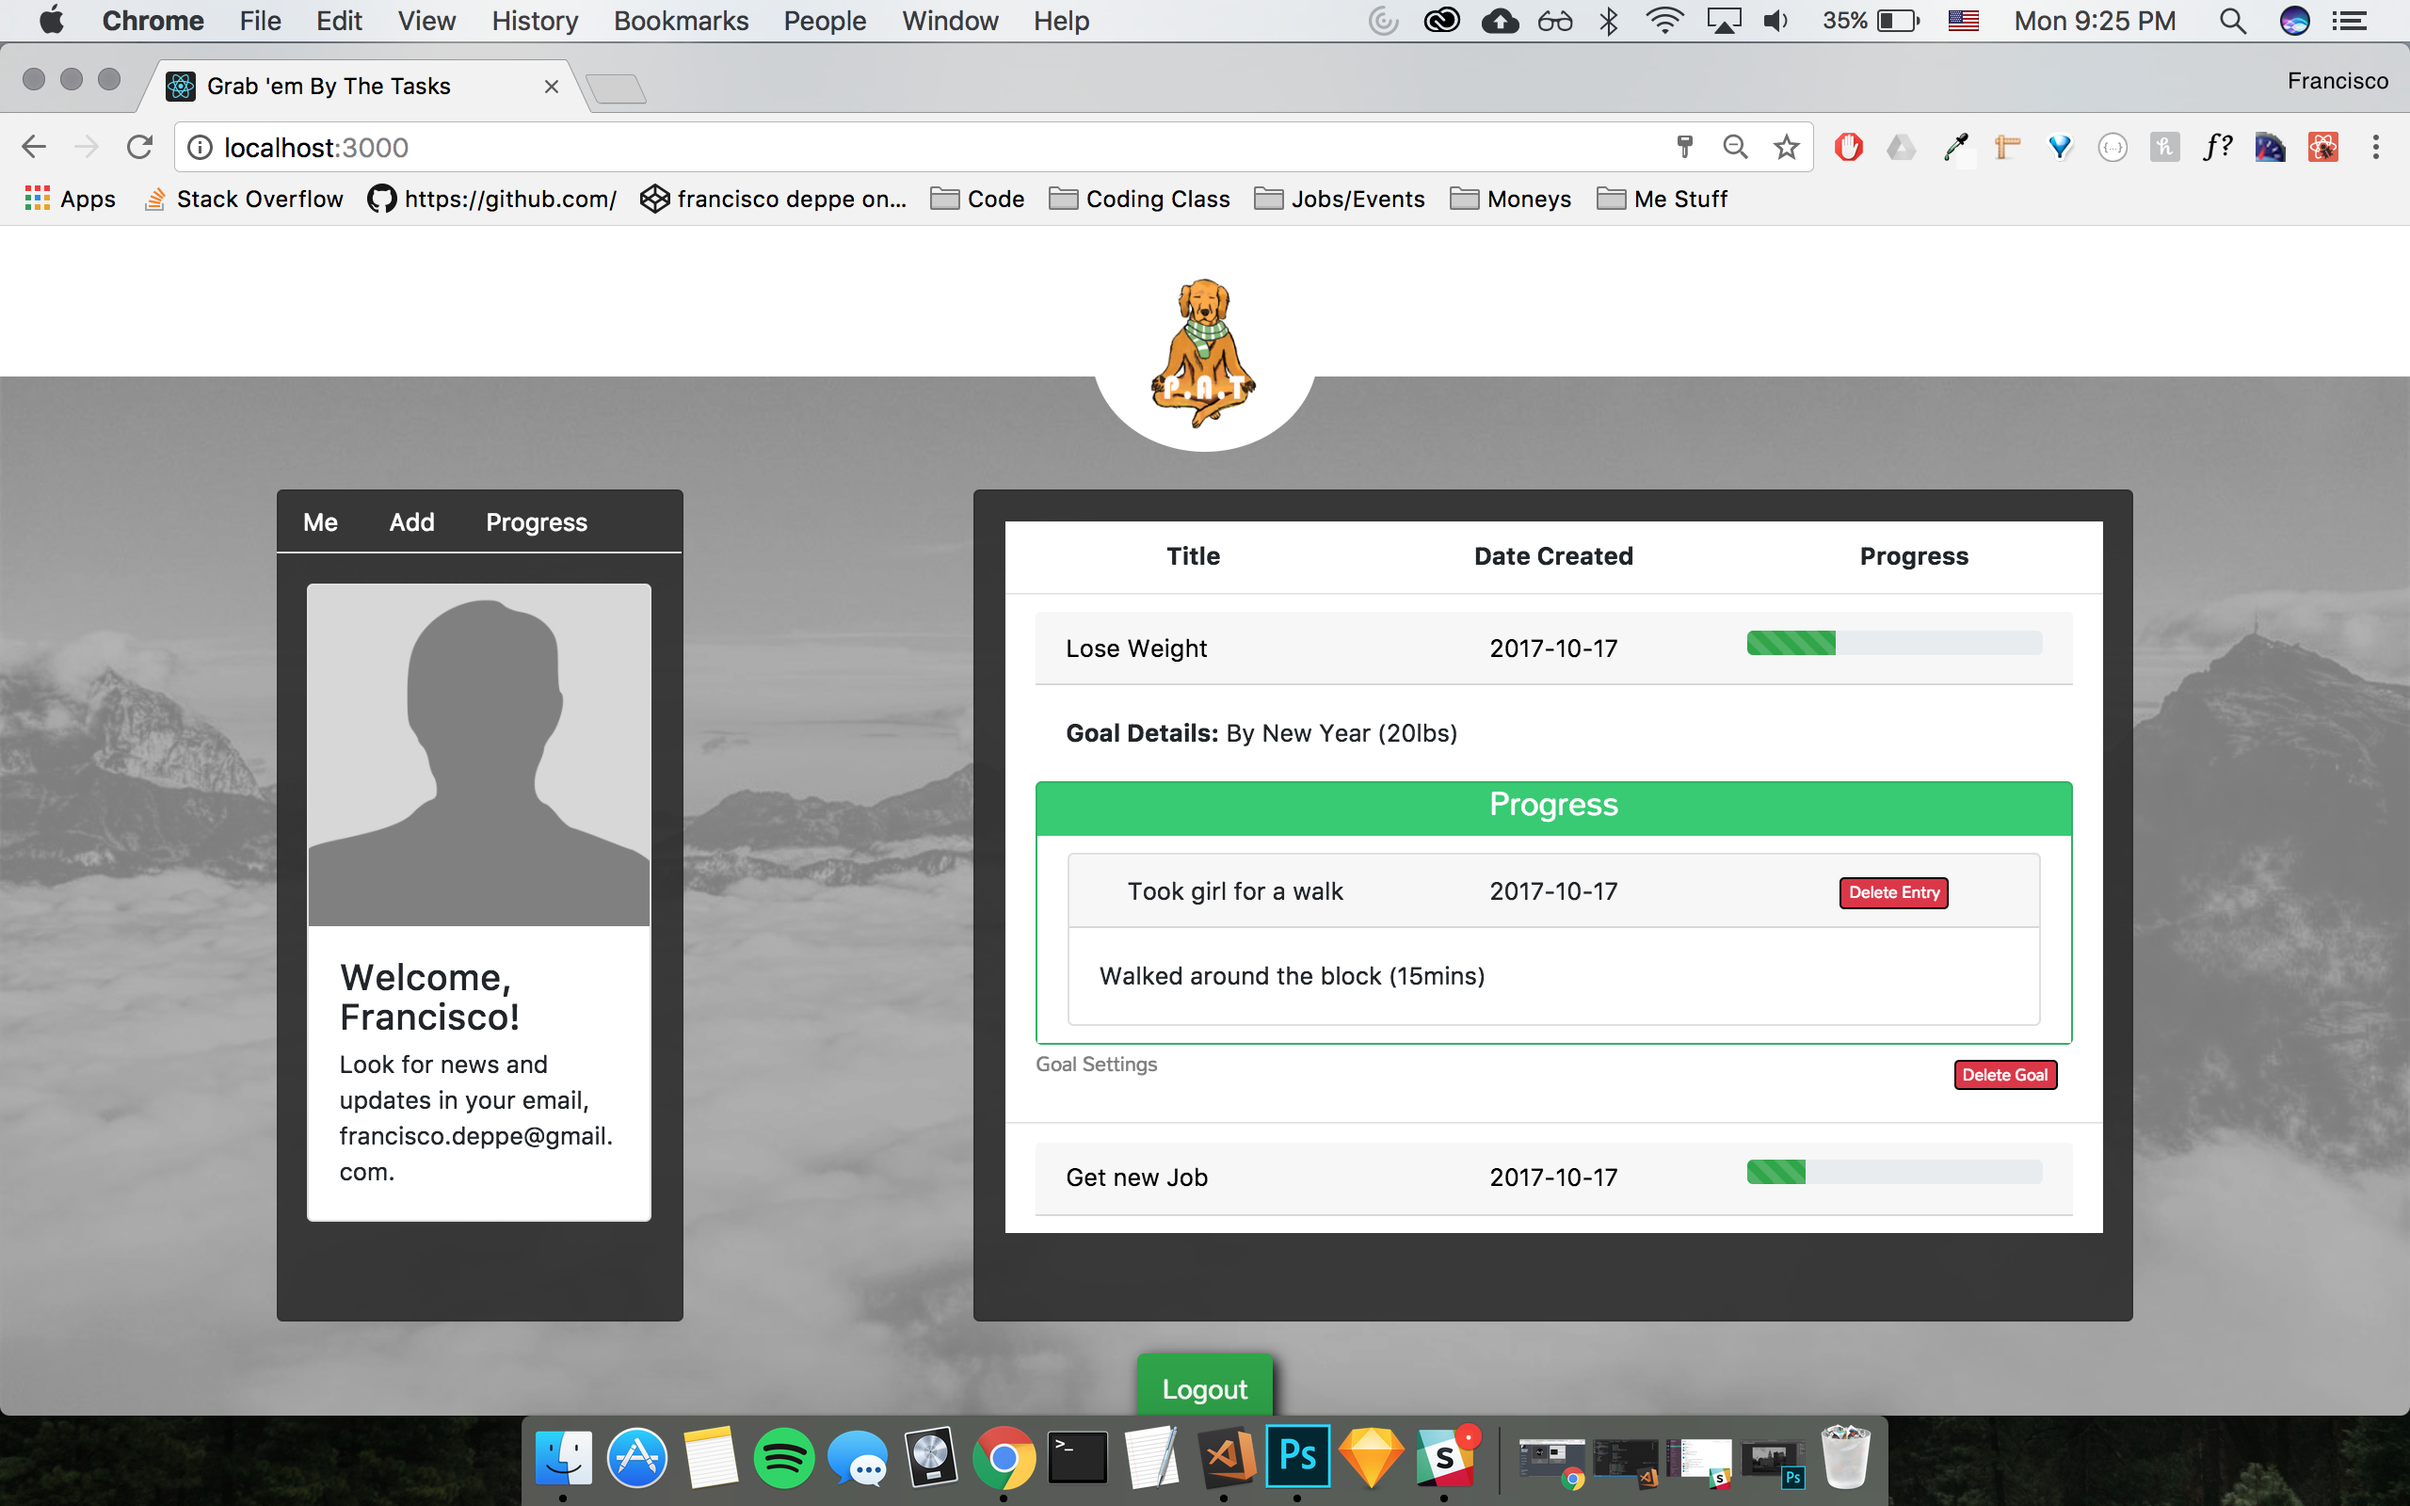
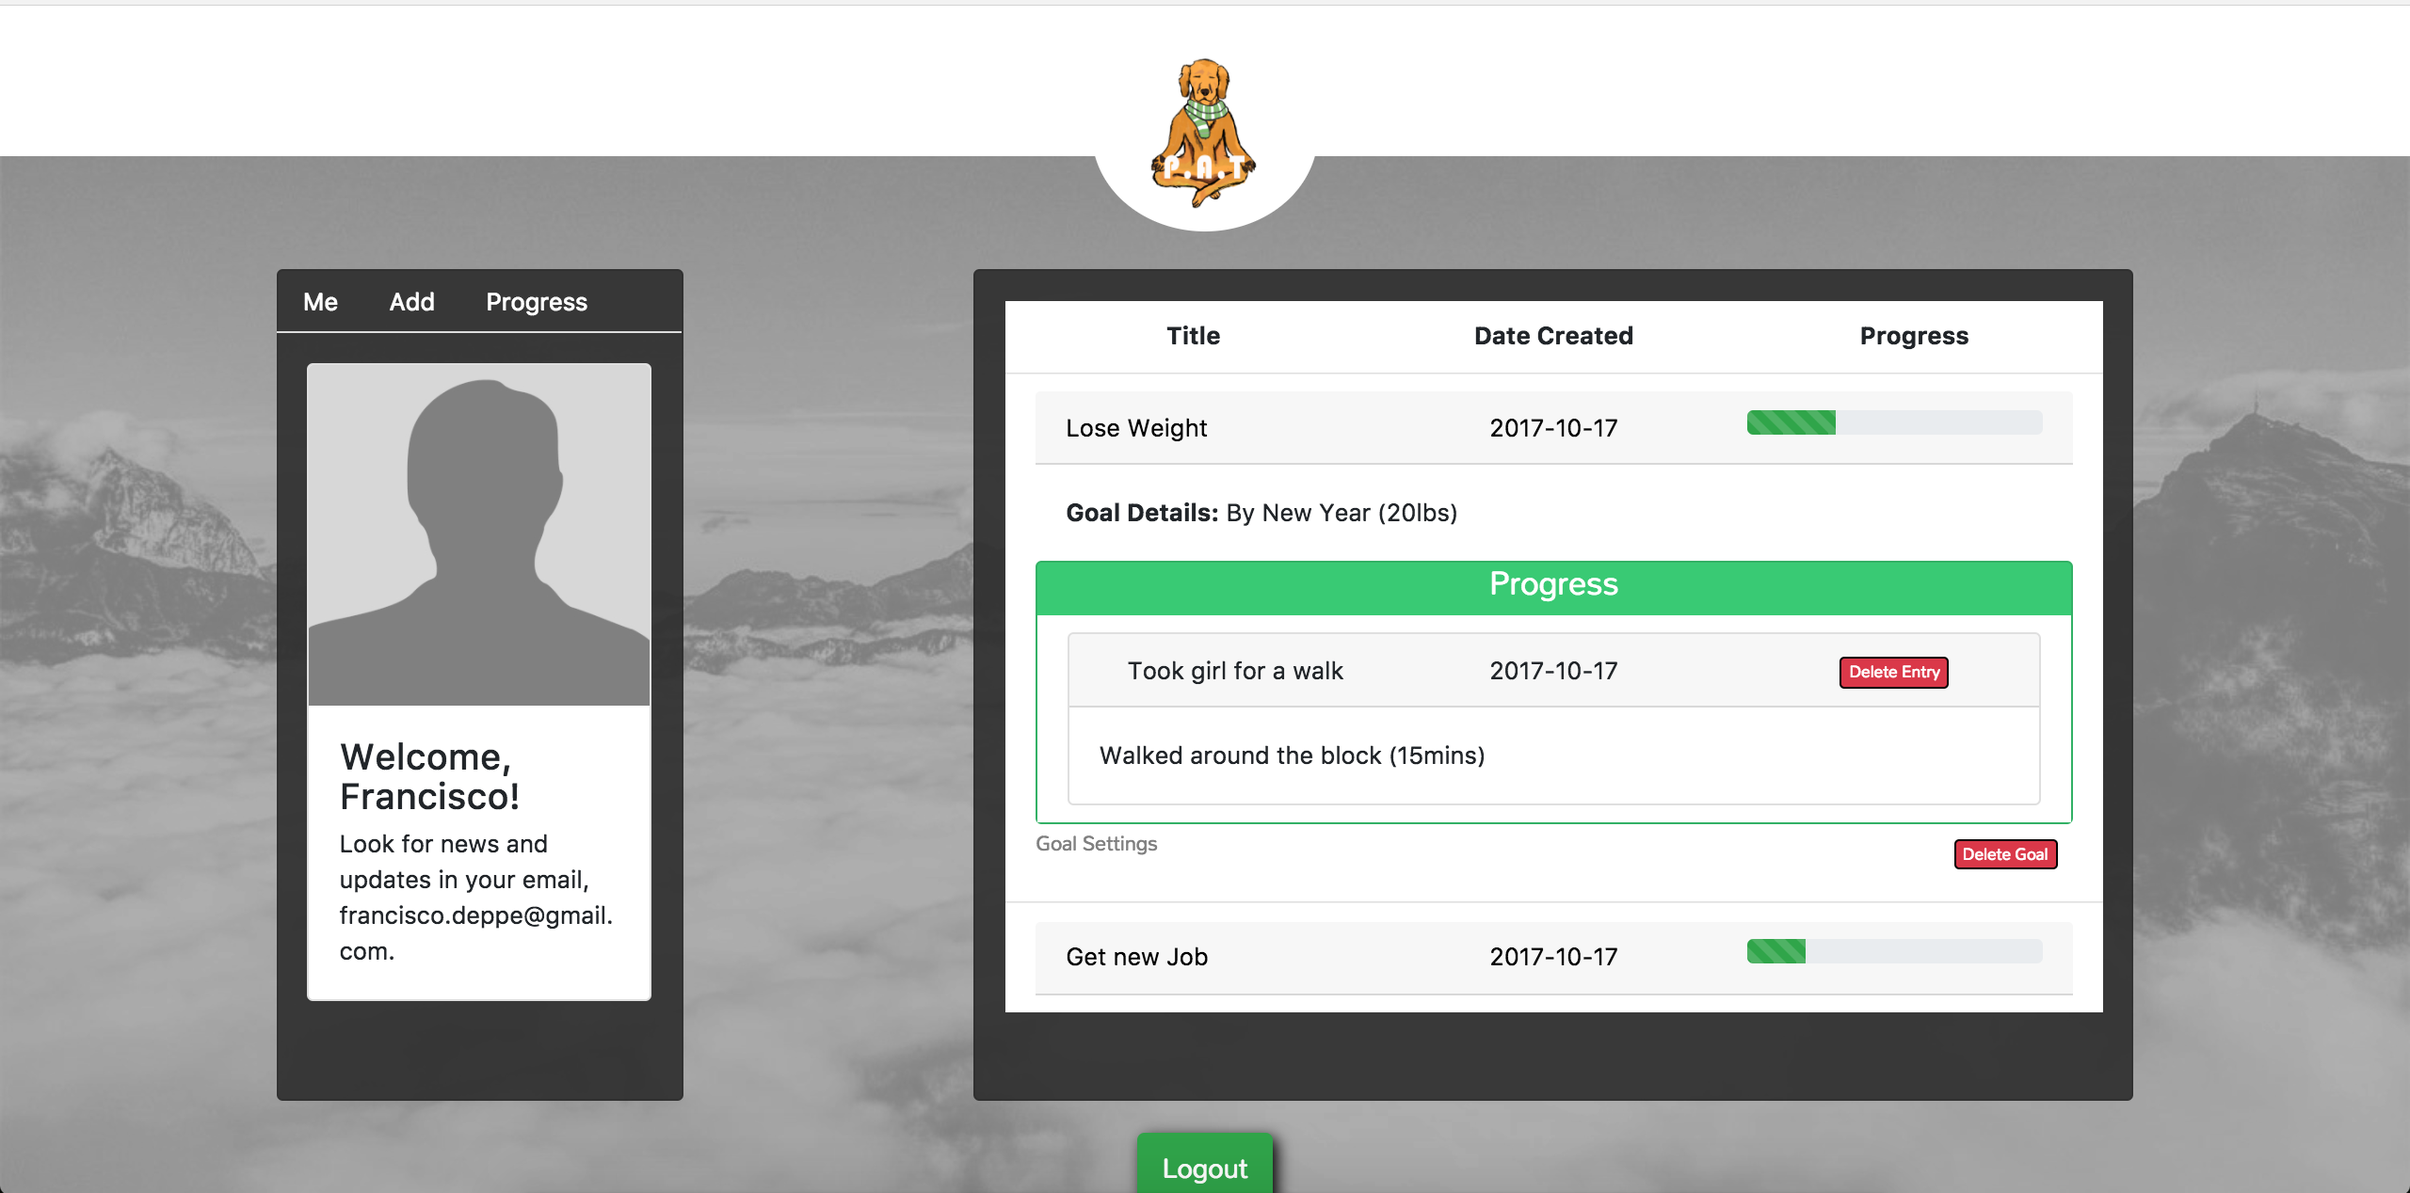
more updates:

diff --git a/assets/js/scripts.js b/assets/js/scripts.js
@@ -7,11 +7,11 @@ var $grid = $('.grid').masonry({
 var work = [
     {
         name: "P.A.T",
-        source: "./Web/PAT-1.png",
+        source: "./Web/PAT-3.png",
         type: "Web Application",
         id: "web",
         client: "Trilogy Education",
-        description: "Personal Goal Tracker"
+        description: "P.A.T (Personal Goal Tracker) : is a web application intended at helping people get over the hurdles they may face when striving to accomplish by giving them a means of seeing the progress they've made so far. <br> Languages Used: React, Node, Express"
     },
     {
         name: "Armet-Davis",
